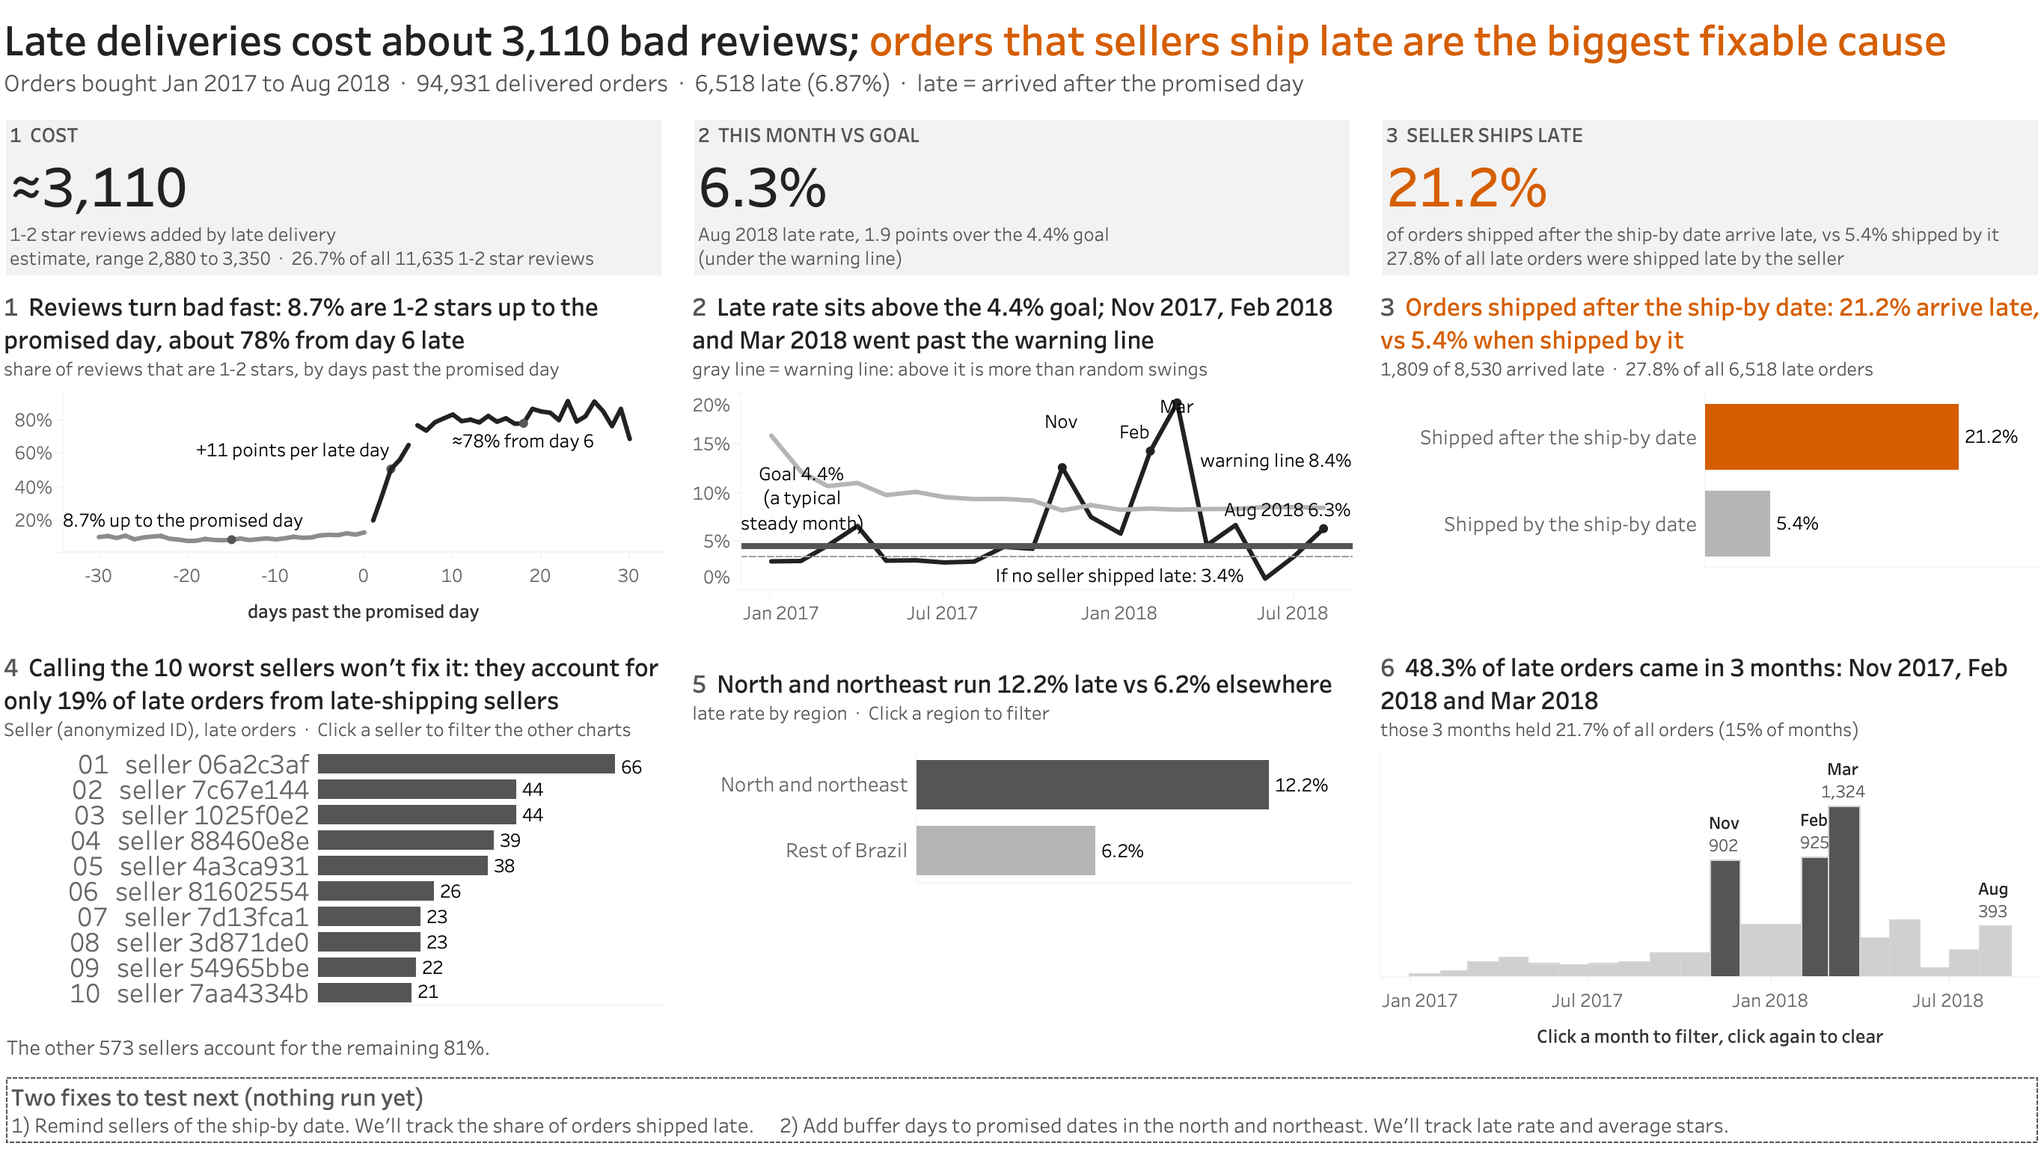
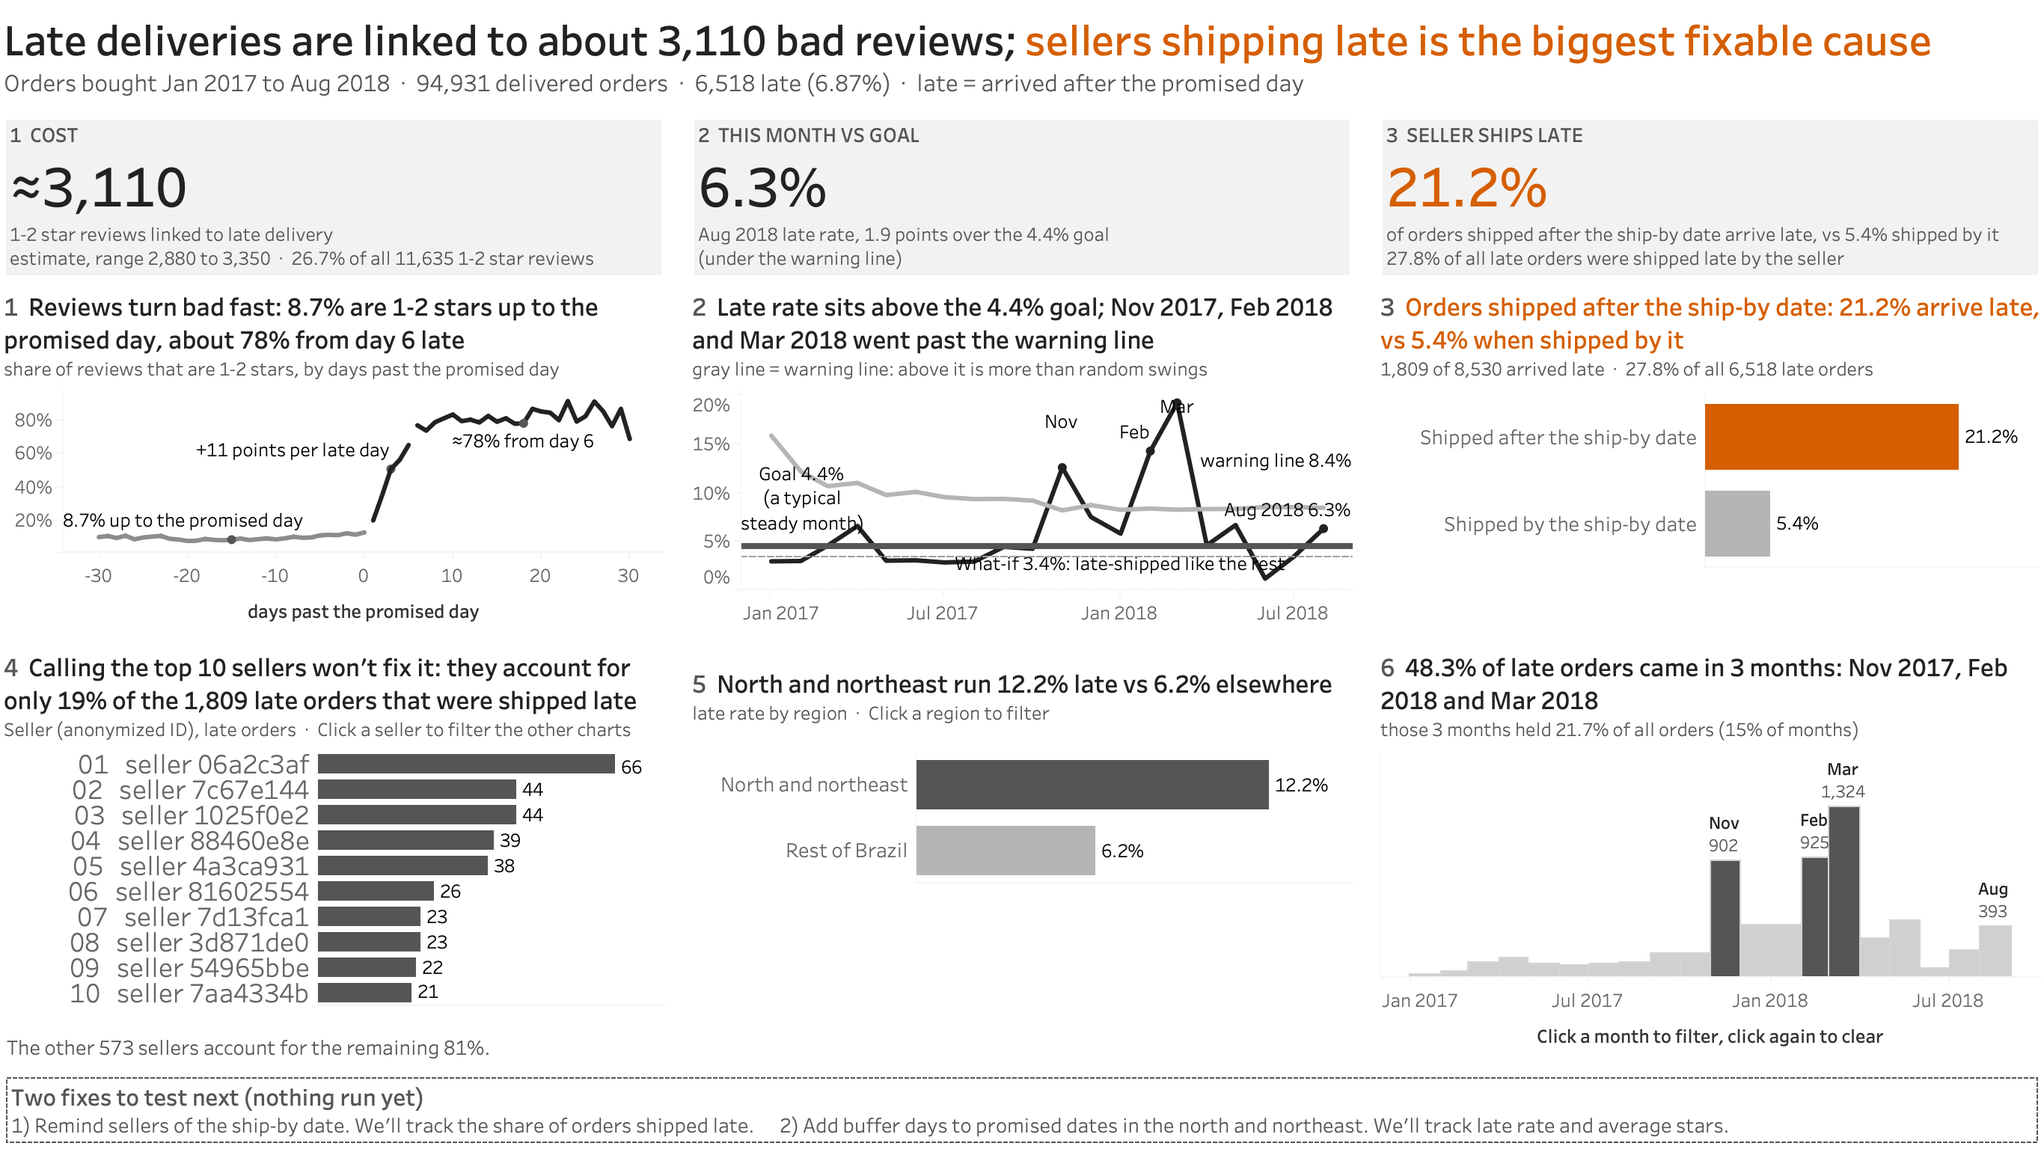
Dashboard review nits: non-causal title and tile 1, what-if label, seller panel title with 1,809, stale data README lines, README limits

diff --git a/dashboard/tableau/gen_workbook.py b/dashboard/tableau/gen_workbook.py
@@ -373,12 +373,12 @@ def ztxt(runs,x,y,w,h,style=''):
         else: rr.append("<run bold='%s' fontcolor='%s' fontsize='%d'%s>%s</run>"%('true' if b else 'false',c,sz,'',q(t)))
     return "        <zone h='%d' id='%d' type='text' w='%d' x='%d' y='%d'><formatted-text>%s</formatted-text>%s</zone>\n"%(P(h),nid(),P(w),P(x),P(y),''.join(rr),style or zstyle())
 NL=('\n',0,0,'')
-fin_a='Late deliveries cost about %s bad reviews; '%n0(F('extra_bad_reviews_rounded'))
-fin_b='orders that sellers ship late are the biggest fixable cause'
+fin_a='Late deliveries are linked to about %s bad reviews; '%n0(F('extra_bad_reviews_rounded'))
+fin_b='sellers shipping late is the biggest fixable cause'
 CX=[1,34,67]; CW=32
 Z=''
 Z+=ztxt([(fin_a,20,True,INK),(fin_b,20,True,ACC),NL,('Orders bought Jan 2017 to Aug 2018  ·  %s delivered orders  ·  %s late (%s)  ·  late = arrived after the promised day'%(n0(F('judged_orders')),n0(F('late_orders')),p2(F('late_rate'))),11,False,MID)],1,0.4,98,9.6)
-kpi=[('1  COST',INK,'≈'+n0(F('extra_bad_reviews_rounded')),'1-2 star reviews added by late delivery','estimate, range %s to %s  ·  %s of all %s 1-2 star reviews'%(n0(F('extra_range_low_rounded')),n0(F('extra_range_high_rounded')),p1(F('extra_share_of_bad_reviews')),n0(F('bad_reviews_all')))),
+kpi=[('1  COST',INK,'≈'+n0(F('extra_bad_reviews_rounded')),'1-2 star reviews linked to late delivery','estimate, range %s to %s  ·  %s of all %s 1-2 star reviews'%(n0(F('extra_range_low_rounded')),n0(F('extra_range_high_rounded')),p1(F('extra_share_of_bad_reviews')),n0(F('bad_reviews_all')))),
      ('2  THIS MONTH VS GOAL',INK,p1(F('latest_month_late_rate')),'%s late rate, %.1f points %s the %s goal'%(SUM['latest_month_label'],abs(F('latest_month_late_rate')-F('goal_late_rate'))*100,'over' if F('latest_month_late_rate')>=F('goal_late_rate') else 'under',p1(F('goal_late_rate'))),'(%s the warning line)'%('under' if F('latest_month_late_rate')<F('latest_month_own_alarm_line_late_rate') else 'over')),
      ('3  SELLER SHIPS LATE',ACC,p1(F('late_handoff_late_rate')),'of orders shipped after the ship-by date arrive late, vs %s shipped by it'%p1(F('on_time_handoff_late_rate')),'%s of all late orders were shipped late by the seller'%p1(F('late_handoff_share_of_late')))]
 if VAR=='b1':
@@ -408,7 +408,7 @@ Z+=title('3','Orders shipped after the ship-by date: %s arrive late, vs %s when 
 Z+=zone_sheet('Handoff',CX[2],r1c,CW,r1h,zstyle(margin=4))
 N_SELL=int(round(F('sellers_with_late_after_late_handoff')))
 CLOSE_H=2.6
-Z+=title('4',"Calling the 10 worst sellers won't fix it: they account for only %s of late orders from late-shipping sellers"%p0(F('top10_share_of_late_after_late_handoff')),'Seller (anonymized ID), late orders  ·  Click a seller to filter the other charts',CX[0],r2T,CW)
+Z+=title('4',"Calling the top 10 sellers won't fix it: they account for only %s of the %s late orders that were shipped late"%(p0(F('top10_share_of_late_after_late_handoff')),n0(F('late_handoff_late_orders'))),'Seller (anonymized ID), late orders  ·  Click a seller to filter the other charts',CX[0],r2T,CW)
 Z+=zone_sheet('Sellers',CX[0],r2c,CW,r2h-CLOSE_H,zstyle(margin=2))
 Z+=ztxt([('The other %d sellers account for the remaining %s.'%(N_SELL-10,p0(1-F('top10_share_of_late_after_late_handoff'))),10,False,MID)],CX[0],r2c+r2h-CLOSE_H,CW,CLOSE_H,zstyle(margin=2))
 Z+=title('5','North and northeast run %s late vs %s elsewhere'%(p1(F('nne_late_rate')),p1(F('rest_late_rate'))),'late rate by region  ·  Click a region to filter',CX[1],r2T,CW)
@@ -462,11 +462,11 @@ if TR:
     GS=os.environ.get('GSZ','4'); SS=os.environ.get('SSZ','1')
     GP=F('goal_late_rate'); SP=F('stretch_whatif_late_rate')
     PARAMS="    <datasource hasconnection='false' inline='true' name='Parameters' version='18.1'>\n      <aliases enabled='yes' />\n"
-    for i,(cap,v) in enumerate([('Goal (a typical steady month)',GP),('If no seller shipped late',SP)],1):
+    for i,(cap,v) in enumerate([('Goal (a typical steady month)',GP),('If late-shipped orders were late as rarely as the rest (what-if)',SP)],1):
         PARAMS+="      <column caption='%s' datatype='real' default-format='p1%%' name='[Parameter %d]' param-domain-type='range' role='measure' type='quantitative' value='%r'>\n        <calculation class='tableau' formula='%r' />\n        <range granularity='0.001' max='0.2' min='0.0' />\n      </column>\n"%(cap,i,v,v)
     PARAMS+="    </datasource>\n"
     PDEP="          <datasource-dependencies datasource='Parameters'>\n"
-    for i,(cap,v) in enumerate([('Goal (a typical steady month)',GP),('If no seller shipped late',SP)],1):
+    for i,(cap,v) in enumerate([('Goal (a typical steady month)',GP),('If late-shipped orders were late as rarely as the rest (what-if)',SP)],1):
         PDEP+="            <column caption='%s' datatype='real' default-format='p1%%' name='[Parameter %d]' param-domain-type='range' role='measure' type='quantitative' value='%r'>\n              <calculation class='tableau' formula='%r' />\n              <range granularity='0.001' max='0.2' min='0.0' />\n            </column>\n"%(cap,i,v,v)
     PDEP+="          </datasource-dependencies>\n"
     ax=M.q('value','sum')

diff --git a/dashboard/tableau/prep.py b/dashboard/tableau/prep.py
@@ -39,5 +39,5 @@ for i,m in enumerate(M):
     if m['year_month']==M[-1]['year_month']: add(m,i,'Latest month','late_rate','%s %s'%(m['month_label'],p1(m['late_rate'])))
     if m['year_month']=='2018-05': add(m,i,'Alarm label','own_month_alarm_line_late_rate','warning line %s'%p1(F('latest_month_own_alarm_line_late_rate')),0.03)
     if (not REF) and m['year_month']=='2017-02': add(m,i,'Goal label','goal_late_rate','Goal %s\n(a typical\nsteady month)'%p1(m['goal_late_rate']),0.003)
-    if (not REF) and m['year_month']=='2018-01': add(m,i,'Stretch label','stretch_whatif_late_rate','If no seller shipped late: %s'%p1(m['stretch_whatif_late_rate']))
+    if (not REF) and m['year_month']=='2018-01': add(m,i,'Stretch label','stretch_whatif_late_rate','What-if %s: late-shipped like the rest'%p1(m['stretch_whatif_late_rate']),-0.026)
 wr('monthly_long',rows)

diff --git a/dashboard/tableau/README.md b/dashboard/tableau/README.md
@@ -4,7 +4,7 @@ The late-delivery dashboard as a Tableau Desktop workbook, with the script that 
 
 ![dashboard](B1_v2.png)
 
-The title says the finding: late deliveries cost about 3,110 bad reviews, and orders that sellers ship late are the biggest fixable cause. Three tiles (cost, this month against the 4.4% goal, seller ships late 21.2% vs 5.4%), then trend, why, and where. Gray everywhere, orange only for orders shipped after the ship-by date. The strip at the bottom names two fixes to test next, with what each would track; it holds no numbers and nothing has been run.
+The title says the finding: late deliveries are linked to about 3,110 bad reviews, and sellers shipping late is the biggest fixable cause. The wording is deliberately not causal: the 3,110 is an estimate from past orders, not a controlled test. Three tiles (cost, this month against the 4.4% goal, seller ships late 21.2% vs 5.4%), then trend, why, and where. Gray everywhere, orange only for orders shipped after the ship-by date. The strip at the bottom names two fixes to test next, with what each would track; it holds no numbers and nothing has been run.
 
 The wording is plain on purpose ("seller ships late", "warning line"), after a comparison with well-rated public dashboards. The data tables and the dbt models keep the older names (handoff, alarm line, stretch what-if); only the words on the dashboard changed. Each clickable panel carries its own click hint. Every figure in the text is built from `summary.csv` when the workbook is generated, including the "1.9 points over the goal" in tile 2 (latest month's late rate minus the goal) and the "other 573 sellers, 81%" line under the seller bars (583 sellers with a late-shipped late order, minus 10; one minus the top-10 share). The warning line's note says what it means in a few words; that it moves with each month's order count is not on the dashboard any more (there was no room).
 
@@ -36,7 +36,7 @@ python3 dashboard/tableau/gen_workbook.py /tmp/olist_tableau /tmp/olist_tableau 
 
 The last command writes `dashboard/tableau/out_b1_v2.twb`, which replaces the committed file. Its two folder arguments differ for a reason. The first is where the script reads the CSV headers from. The second is the folder written into the workbook as the place Tableau reads the CSVs from. The committed workbook names `/path/to/olist_dash/data`, so a workbook built with `/tmp/olist_tableau` differs from it only in the three data-folder lines; pass `/path/to/olist_dash/data` as the second argument to get the committed text exactly.
 
-What was checked (2026-11-19, against the warehouse copy the dashboard was built from): the three CSVs and the workbook above were regenerated by these commands for this version, the workbook was opened in Tableau Desktop 2026.3 on the Mac and exported to `B1_v2.png`, and a 45-line number check (every figure on the image against DuckDB and `summary.csv`, plus the new computed ones and the workbook text) had no mismatch. The number check script is not in the repo. `orders.csv` itself is not committed. It has not been re-run on another machine or against a fresh `make build`.
+What was checked (2026-11-19, against the warehouse copy the dashboard was built from): the three CSVs and the workbook above were regenerated by these commands for this version, the workbook was opened in Tableau Desktop 2026.3 on the Mac and exported to `B1_v2.png`, and a 52-line number check (every figure on the image against DuckDB and `summary.csv`, plus the new computed ones and the workbook text) had no mismatch. The number check script is not in the repo. `orders.csv` itself is not committed. It has not been re-run on another machine or against a fresh `make build`.
 
 Settings you may meet: `VAR` (b1 three tiles, shipped, or b2 one-line strip), `ONLY` (build only the named sheets, separated by `|`), `REF` (for `prep.py`: leave the goal and stretch data lines out), `OPT` (read but unused); `gen_workbook.py`'s header lists the rest (`TR`, `GSZ`, `SSZ`, `PAT`, `FILT`, `TIPV`, `X`).
 
@@ -44,7 +44,7 @@ Settings you may meet: `VAR` (b1 three tiles, shipped, or b2 one-line strip), `O
 
 Clicking a seller, a region bar or a month bar filters the sellers, shipped-late, region and months panels. The tiles, the chart titles and the trend panel always show all orders. Tableau, not an image, is needed for this: run it in Tableau Desktop.
 
-All three were tested on the shipped `out_b1_v2.twb` (this wording version) in Tableau Desktop 2026.3 on 2026-11-19: a real mouse click, then Dashboard > Export Image, compared with a DuckDB query on the same filter. After each click, clicking again gave an export with the same md5 as the unfiltered one (`7ec795fb...`), so one `baseline.png` stands for all three clears. The click hints on the dashboard are in the panels: the seller and region hints in each panel's note line, the month hint under the months chart.
+All three were tested on the shipped `out_b1_v2.twb` (this wording version) in Tableau Desktop 2026.3 on 2026-11-19: a real mouse click, then Dashboard > Export Image, compared with a DuckDB query on the same filter. After each click, clicking again gave an export with the same md5 as the unfiltered one (`7ec795fb...` for the region and month runs, `3d7e2dc7...` for the final seller re-run), so one `baseline.png` stands for the clears. The click hints on the dashboard are in the panels: the seller and region hints in each panel's note line, the month hint under the months chart.
 
 | Click | Result | Matches DuckDB |
 |---|---|---|
@@ -63,5 +63,7 @@ The 4.4% goal and the 3.4% stretch line are Tableau reference lines whose value 
 ## Other limits found
 
 - A workbook with italic text runs does not open, so text on the dashboard is never italic.
-- The goal label ("Goal 4.4% (a typical steady month)") is a three-line label at the left of the trend chart, and it touches the gray warning line and the small bump in early 2017: the chart is too short for a clear one-line label. The "8.7% up to the promised day" label sits right next to the y-axis labels. The seller ID header ("Seller (anonymized ID)") is part of the panel's note line. The export has no seller state, so none is shown.
+- Chart 2 labels are a squeeze. The goal label ("Goal 4.4% (a typical steady month)") is a three-line label at the left of the trend chart and touches the gray warning line and the small bump in early 2017. The what-if label ("What-if 3.4%: late-shipped like the rest") sits under the dashed line and its two ends touch the black line. It is short on purpose: the reviewer's longer wording ("If late-shipped orders were late as rarely as the rest: 3.4% (what-if)") landed on top of the goal line in every placement tried, so the full wording is only in the line's hover caption. What the what-if means: the late rate in a typical stable month if late-shipped orders were late no more often than the rest.
+- The "Mar" month label touches the top of the line (the March peak is the top of the chart). Raising it by an offset changed the y-axis scale (tick marks every 10 points instead of 5) and shrank the plot, so it was left as is.
+- The "8.7% up to the promised day" label sits right next to the y-axis labels. The seller ID header ("Seller (anonymized ID)") is part of the panel's note line, and the panel's note does not say "top 10 by late-shipped late orders" for lack of room; the title says "top 10 sellers" and the bars are late orders shipped late. The export has no seller state, so none is shown.
 - Tableau Public is not used. Nothing here publishes anything.

diff --git a/dashboard/README.md b/dashboard/README.md
@@ -12,7 +12,7 @@ Tables for the late-delivery dashboard (layout B: six number tiles over six pane
 | `handoff.csv` | 2 | late or on-time handoff | panel 3 |
 | `sellers.csv` | 2,925 | seller | panel 4; the chart shows `is_top10` |
 | `region.csv` | 2 | north and northeast, rest of Brazil | panel 5 |
-| `tests_example.csv` | 2 | test | panel 6, **invented example numbers** |
+| `tests_example.csv` | 2 | test | not used by the shipped Tableau dashboard (`tableau/`, layout B1), whose bottom strip names two fixes to test and shows no numbers. If a strip with numbers is ever shown, these are **invented example numbers** |
 
 ## What the numbers mean
 
@@ -37,10 +37,10 @@ Four layers, each proven able to fail:
 
 **What is a consistency check, not evidence.** The review-cost range (2,880 to 3,350, six estimators in `review_cost_causal/`) is not recomputed here. The four rows that compare it with facts.json and the evidence report are labelled "consistency" in the tests and the verifier: they show the export carries the number the analysis wrote, not that the range is right. The 21.7% and 15% are read from the story's month table.
 
-## Panel 6 is an example
+## The tests strip is an example
 
-`seeds/dash_tests_example.csv` holds invented numbers that show the layout. The export marks every row `is_example`, `not run`, "EXAMPLE" in both labels, an asterisk on both values, the banner and a footnote. `assert_dash_tests_are_labelled_example` fails if any row loses one of those. When the tests have run, a results model replaces the seed and that test goes with it.
+The shipped Tableau dashboard (`tableau/`) no longer shows these numbers; its bottom strip says "Two fixes to test next (nothing run yet)" and holds none. The file stays, still labelled, for any layout that shows a strip with numbers. `seeds/dash_tests_example.csv` holds invented numbers that show the layout. The export marks every row `is_example`, `not run`, "EXAMPLE" in both labels, an asterisk on both values, the banner and a footnote. `assert_dash_tests_are_labelled_example` fails if any row loses one of those. When the tests have run, a results model replaces the seed and that test goes with it.
 
 ## Not in these tables
 
-The month filter (click a month to filter panels 3 to 5) is not wired: handoff, seller and region tables cover the whole window. Layout B shows no month filter. If the dashboard needs one, add a month column to those three tables.
+These tables cover the whole window: the handoff, seller and region tables have no month column. The click filters (seller, region, month) in the Tableau dashboard do not use them. They work on a separate order-level file, `orders.csv`, built from the warehouse by `tableau/export_orders.py` (not committed). See `tableau/README.md`.

diff --git a/dashboard/tableau/evidence/click_seller.md b/dashboard/tableau/evidence/click_seller.md
@@ -1,11 +1,11 @@
 VERIFIED
-Workbook: ../out_b1_v2.twb (the shipped file, wording version 3). Tableau Desktop 2026.3, macOS, 2026-11-19, about 21:55 ET.
+Workbook: ../out_b1_v2.twb (the shipped file, wording version 3). Tableau Desktop 2026.3, macOS, 2026-11-19, about 22:12 ET (re-run after the last small wording fixes; layout unchanged).
 Claim: clicking the seller 06a2c3af bar filters the shipped-late, region and month panels to that seller (the "Orders shipped after the ship-by date" panel moves off 5.4% / 21.2%), and clicking again undoes it. Trend and ramp stay all-order by design.
 
 Images (downscaled to 1366 x 768 for this repo; md5 of the full-size exports in brackets):
- baseline.png      shipped by 5.4% / shipped after 21.2%, region 12.2% / 6.2%            [7ec795fb934e96f9cf3fc17100dbde11]
- click_seller.png  shipped by 3.0% / shipped after 54.5%, region 22.4% / 18.2%, months Feb 2, Mar 17, Aug 1; seller bar outlined, others dimmed   [33344d59a1ae0d5939c073d0ec082f47]
- clear (click again): the export has the same md5 as the baseline, so no separate image is kept.   [7ec795fb934e96f9cf3fc17100dbde11]
+ baseline.png      shipped by 5.4% / shipped after 21.2%, region 12.2% / 6.2%            [3d7e2dc7f0152a281d6b0fd6983db0f4]
+ click_seller.png  shipped by 3.0% / shipped after 54.5%, region 22.4% / 18.2%, months Feb 2, Mar 17, Aug 1; seller bar outlined, others dimmed   [751945d03ae420ec4f4c0fc56253b71e]
+ clear (click again): the export has the same md5 as the baseline, so no separate image is kept.   [3d7e2dc7f0152a281d6b0fd6983db0f4]
 
 DuckDB (orders.csv built from the warehouse by export_orders.py), seller 06a2c3af: shipped by the ship-by date 8/267 = 3.0%, shipped after 66/121 = 54.5%; region North and northeast 22.4%, rest 18.2%; seller bar 66. All match the image.
 

diff --git a/dashboard/tableau/evidence/click_region_month.md b/dashboard/tableau/evidence/click_region_month.md
@@ -1,9 +1,9 @@
 VERIFIED (region click) and VERIFIED (month click)
-Workbook: ../out_b1_v2.twb (the shipped file, wording version 3). Tableau Desktop 2026.3, macOS, 2026-11-19, about 21:56 ET.
+Workbook: ../out_b1_v2.twb (the shipped file, wording version 3). Tableau Desktop 2026.3, macOS, 2026-11-19, about 21:56 ET. NOTE: run on the previous commit (59411e8). The two wording fixes after it (title, stretch label, seller title) do not touch the filters, and the seller click was re-run on the final file (click_seller.md), but the region and month clicks were not re-run on the final file, and click_region.png / click_month.png show the previous title and stretch label.
 Harness: harness/click_probe.py with harness/mclick.js (Presentation Mode, real mouse click, Esc, Export Image). Screen points: region bar North and northeast (915, 699); month bar Mar 2018 (1412, 802).
 
 Images (downscaled to 1366 x 768; md5 of the full-size exports in brackets):
- baseline.png      [7ec795fb934e96f9cf3fc17100dbde11]
+ baseline.png      [7ec795fb934e96f9cf3fc17100dbde11] (the previous commit's baseline; the final baseline is in click_seller.md)
  click_region.png  [c831b96d1f38e22ae3eb88d98fabb5d5]
  click_month.png   [f69491e92ddfd6fc369a158afb1387a7]
  clear after each click: the export has the baseline md5 (7ec795fb...) both times, so no separate images are kept.
